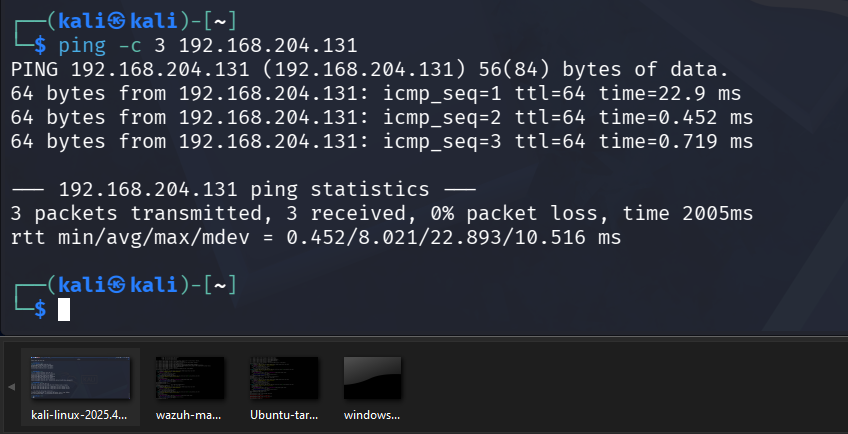
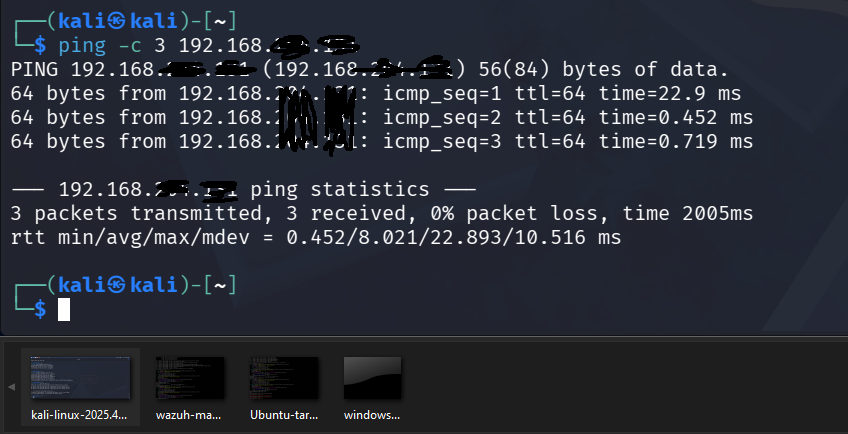
Add Phase 5 write-up: attack simulation and detection validation

diff --git a/docs/04-phase5-attack-simulation.md b/docs/04-phase5-attack-simulation.md
@@ -11,8 +11,8 @@ A SIEM that silently logs everything but never alerts is no better than no SIEM 
 ## Environment
 
 - **Attacker:** Kali Linux VM
-- **Target:** `ubuntu-target` (192.168.204.131), Wazuh agent from Phase 3
-- **Manager:** `wazuh-manager` (192.168.204.131)
+- **Target:** `ubuntu-target` (192.168.xxx.xxx), Wazuh agent from Phase 3
+- **Manager:** `wazuh-manager` (192.168.xxx.xxx)
 - **Windows target powered off for this phase** to free up lab RAM
 
 ## Pre-Checks
@@ -38,7 +38,7 @@ Before running anything, I confirmed:
 
 ### Test 1 — Port Scan (Reconnaissance)
 ```bash
-nmap -sS -sV 192.168.204.131 (my ubuntu-target vm)
+nmap -sS -sV 192.168.xxx.xxx (my ubuntu-target vm)
 ```
 **Expected finding:** a plain port scan often produces **little or no alert** from a host-based agent like Wazuh, because the agent sees host activity, not raw network probes hitting the wire. Although, nothing fired, which is a legitimate and useful finding, not a failure: it's the reason SOCs pair host agents with a network sensor like Suricata.
 
@@ -60,9 +60,9 @@ Manual failed logins, then an automated burst with a short wordlist:
 
 
 echo -e "password\n123456\nadmin\nletmein\nqwerty" > ~/small-list.txt
-hydra -l agentadmin -P ~/small-list.txt ssh://192.168.204.131 -t 4
+hydra -l agentadmin -P ~/small-list.txt ssh://192.168.xxx.xxx -t 4
 
-hydra -l agentadmin -P /home/kali/passwords.txt ssh://192.168.204.131
+hydra -l agentadmin -P /home/kali/passwords.txt ssh://192.168.xxx.xxx
 
 ![Wazuh Dashboard Login](../screenshots/phase5/bruteforcepass1.png)
 
